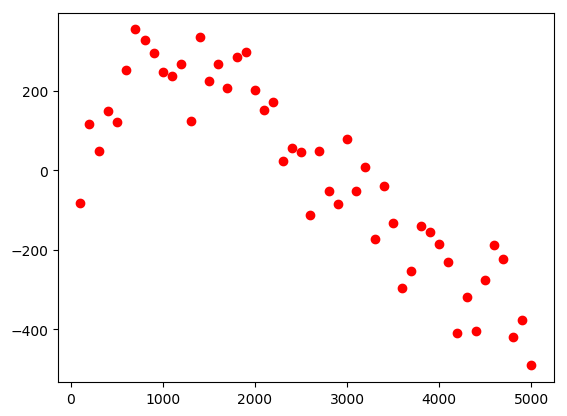
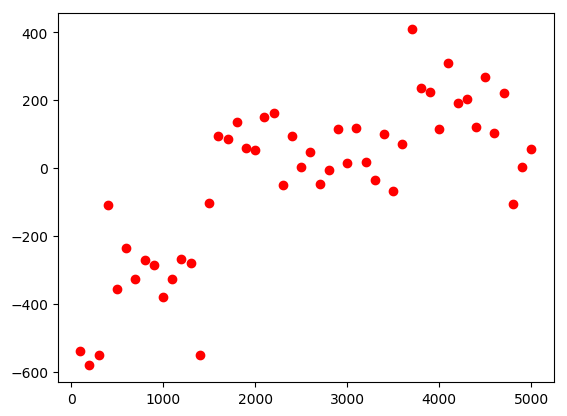
fix epsilon update

diff --git a/src/agent.py b/src/agent.py
@@ -9,7 +9,7 @@ class Problem:
 
     def __init__(self, row_sz, col_sz):
         self.grid = Grid(row_sz, col_sz)
-        self.policy = Policy(env.ACTIONS, 0.2, 0.9, 0.1)
+        self.policy = Policy(env.ACTIONS, 0.2, 0.9, 1.0)
         self.robby = Agent(self.grid, np.random.randint(0, row_sz), np.random.randint(0, col_sz), self.policy)
         self.epoch = 1
         self.rewards_per_episode = []
@@ -20,9 +20,13 @@ class Problem:
         return self.robby.total_reward
 
     def run(self, n, m):
+        self._train(n, m)
+        return self._test(n, m)
+
+    def _train(self, episodes, steps):
         print("Beginning Training...\n")
-        for i in range(n): #episodes
-            reward_accumulated = self.train(m)
+        for i in range(episodes): #episodes
+            reward_accumulated = self.train(steps)
             self.policy.update_e(self.epoch)
             self.epoch += 1
             self.grid = Grid(10,10)
@@ -31,13 +35,15 @@ class Problem:
                 self.rewards_per_episode.append(reward_accumulated)
             print(i, self.policy._e, reward_accumulated)
         self._create_training_plot()
+
+    def _test(self, episodes, steps):
         print("Beginning Test...\n")
         self.policy.reset_e()
         self.rewards_per_episode = []
-        for i in range(n):
+        for i in range(episodes):
             self.grid = Grid(10,10)
             self.robby = Agent(self.grid, np.random.randint(0, 10), np.random.randint(0, 10), self.policy)
-            reward_accumulated = self.train(m)
+            reward_accumulated = self.train(steps)
             self.rewards_per_episode.append(reward_accumulated)
             print(i, self.policy._e, reward_accumulated)
         return self._calculate_test_mean_std()
@@ -71,6 +77,5 @@ class Agent:
 
 
 p = Problem(10,10)
-#p.train(200)
 print(p.run(5000,200))
 

diff --git a/src/policy.py b/src/policy.py
@@ -30,9 +30,9 @@ class Policy:
         return d
 
     def update_e(self, epoch):
-        if self._e != 1:
+        if self._e != 0.1:
             if self._e_counter % 50 == 0:
-                self._e += round(dec.Decimal(0.01),2)
+                self._e -= round(dec.Decimal(0.01),2)
             self._e_counter += 1
 
     def reset_e(self):
